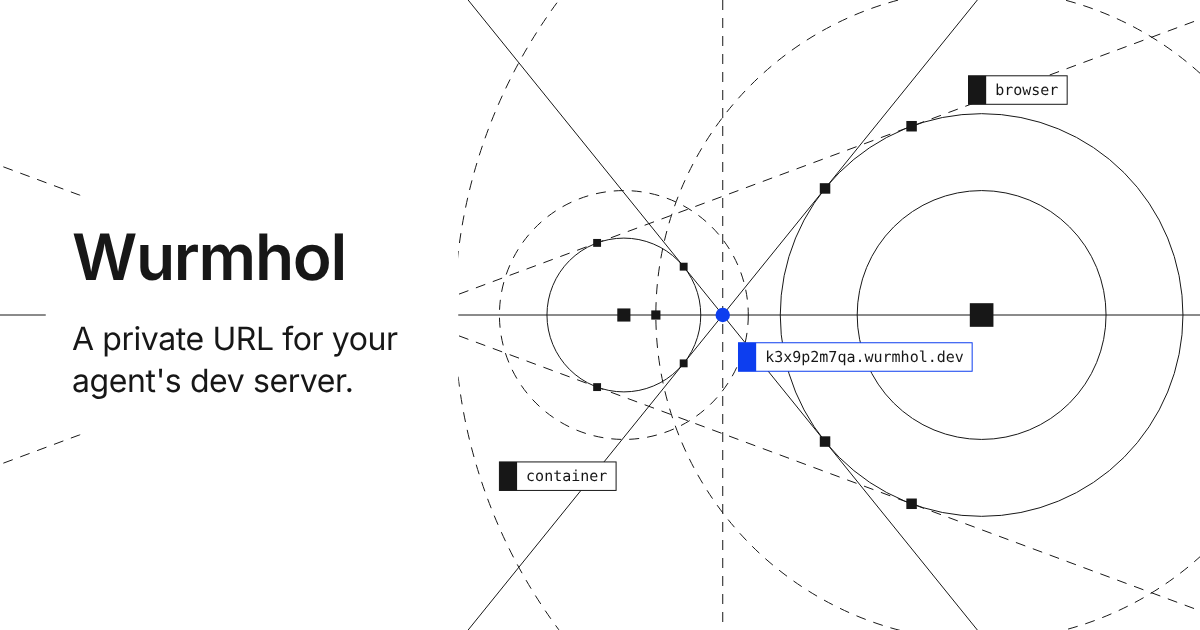
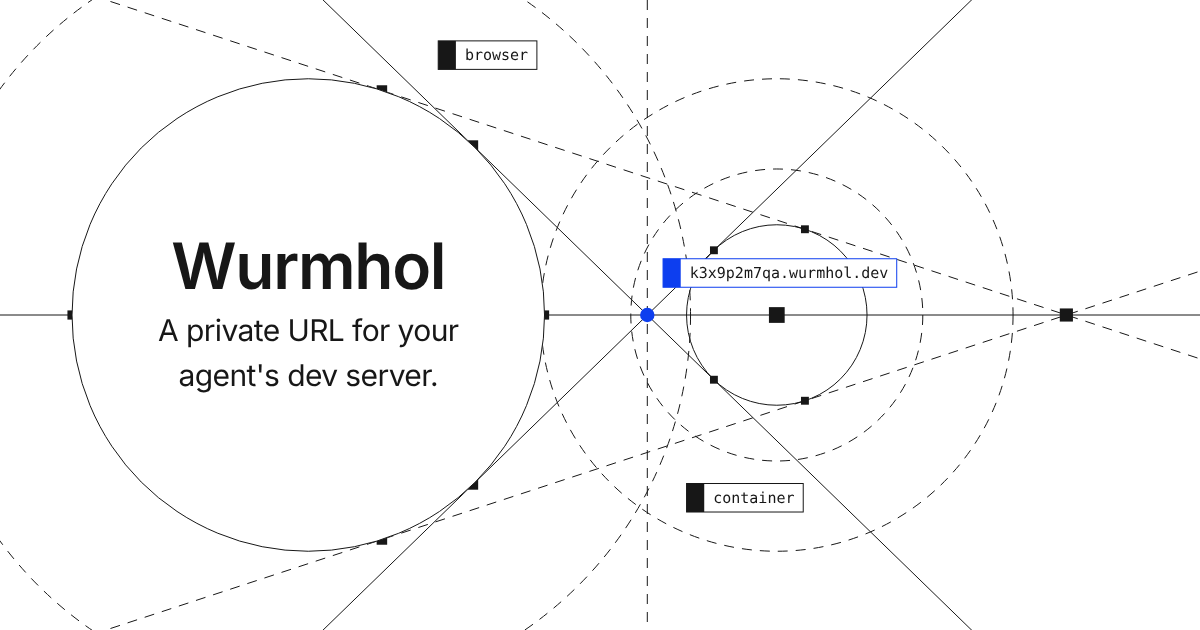
Network style: copy sits inside a hole of the construction (hole(), text()), og:image redone that way

diff --git a/.claude/skills/network-create/SKILL.md b/.claude/skills/network-create/SKILL.md
@@ -26,6 +26,13 @@ numbers.
   `browser`, `:5173`, a `*.wurmhol.dev` host. No real tokens or user data.
 - **One accent, one pivot.** The brand `primary` marks the single thing the plate is about, plus
   at most the one line or tag tied to it.
+- **Text lives in the drawing.** Copy and page content (a wordmark, a headline, a form, a
+  message) sit inside a shape of the construction: a hole, a frame, an end wall. The drawing is
+  built outward from that shape, and its lines touch or stop at the drawn rim, never cross it.
+  No bare white box cut out behind text, no fill or fade to make room: the login's form in the
+  Steiner chain's hole, the ended page's message on the duct's end wall, the consent form in its
+  hole and the link preview's copy in the browser circle are the pattern. `hole()` and `text()`
+  build it, and rendering refuses text outside a hole.
 - **Complete and balanced.** A plate fills its frame: outer layers run past the edge, so it reads
   as part of a larger drawing. The ink's centre of mass sits near the frame's centre. Two shapes
   and a line is not a plate.
@@ -118,8 +125,16 @@ you pick a variant instead of guessing. `--tsx Name` writes a React component of
    unscaled, offset so (0, 0) lands on its positioned parent. Anchor at a point CSS can place
    exactly at any size (the column's centre, `top-1/2 left-1/2`), not at a child whose position
    depends on content. The login (`apps/web/src/components/auth/wormhole*.tsx`, scene
-   `backdrop`) puts the form in the hole of a Steiner chain. `void()` is the fallback for text
-   that can't sit inside a shape.
+   `backdrop`) puts the form in the hole of a Steiner chain. There is no fallback for text that
+   doesn't fit a shape: change the construction until one holds it.
+
+   **Copy inside a plate** (a link preview, a hero with its headline): declare the shape with
+   `p.hole({ c, r })` or `p.hole({ x, y, w, h })`, which draws its rim and stops every other line
+   at it, then set the copy with `p.text(c, [{ text, size, weight }], { pad, gap })` in the
+   display face (Inter). Rendering throws if the block doesn't fit inside a hole with `pad` to
+   spare. Prefer lines that are tangent to the rim or end on it with a node over lines that the
+   rim merely clips. To rasterize, load Inter into the page (as `apps/site/scripts/og.mjs` does);
+   `check.mjs` counts the copy in the balance.
 
    Check an anchored plate through real viewports with `check.mjs --frame x,y,w,h` (the window
    a screen shows, in the plate's coordinates), then on the real stack at 1440, 1024 and 390.
@@ -172,11 +187,11 @@ you pick a variant instead of guessing. `--tsx Name` writes a React component of
   from outside, and their inner tangents cross at the internal centre of similitude, the grant,
   the accent. A half square on the left circumscribes the hole, so the plate balances.
 
-- **Link preview** (`og`): the marketing site's `og:image`, 1200x630. Common tangents on the
-  right (`container` small, `browser` large), the pivot tagged with a pipe host as the accent;
-  the wordmark and headline sit in a void on the left (`TEXT`). `apps/site/scripts/og.mjs` adds
-  the text in Inter and writes `apps/site/public/og.png`; check its composite SVG, not the bare
-  plate, since the text is part of the balance.
+- **Link preview** (`og`): the marketing site's `og:image`, 1200x630. Common tangents between a
+  large circle (`browser`), a hole that holds the wordmark and headline, and a small one
+  (`container`); every tangent only touches the browser's rim, and the pivot where the inner
+  pair crosses is tagged with a pipe host as the accent. `apps/site/scripts/og.mjs` writes
+  `apps/site/public/og.png`.
 
 - **Ended** (`ended`): the Worker's own pages on a share host (ended, reconnecting, refused). A
   square duct in one-point perspective, frames growing by √φ from a closed end wall; the message

diff --git a/DESIGN.md b/DESIGN.md
@@ -83,6 +83,9 @@ it. It holds no values: colors, sizes, and radii live in code, so they cannot dr
 - **Hover and current.** Icons are muted by default and turn `foreground` on hover. The item for
   the page you're on is _current_ (`isCurrent`, which sets `aria-current="page"`): foreground icon
   and the `accent` fill. "Selected" is for picking items in a list, not for navigation.
+- **Text in graphics.** Text on or beside a brand graphic sits inside a shape of its construction
+  (a hole, a frame), with the lines stopping at that shape's rim. Never a white box, fill or fade
+  cut out behind it (`network-create`, "Text lives in the drawing").
 - **Weight.** Text is regular weight unless the design shows otherwise.
 - **Numbers.** Counts, times and anything that lines up in a column use `tabular-nums`, so digits
   don't shift as values change.
